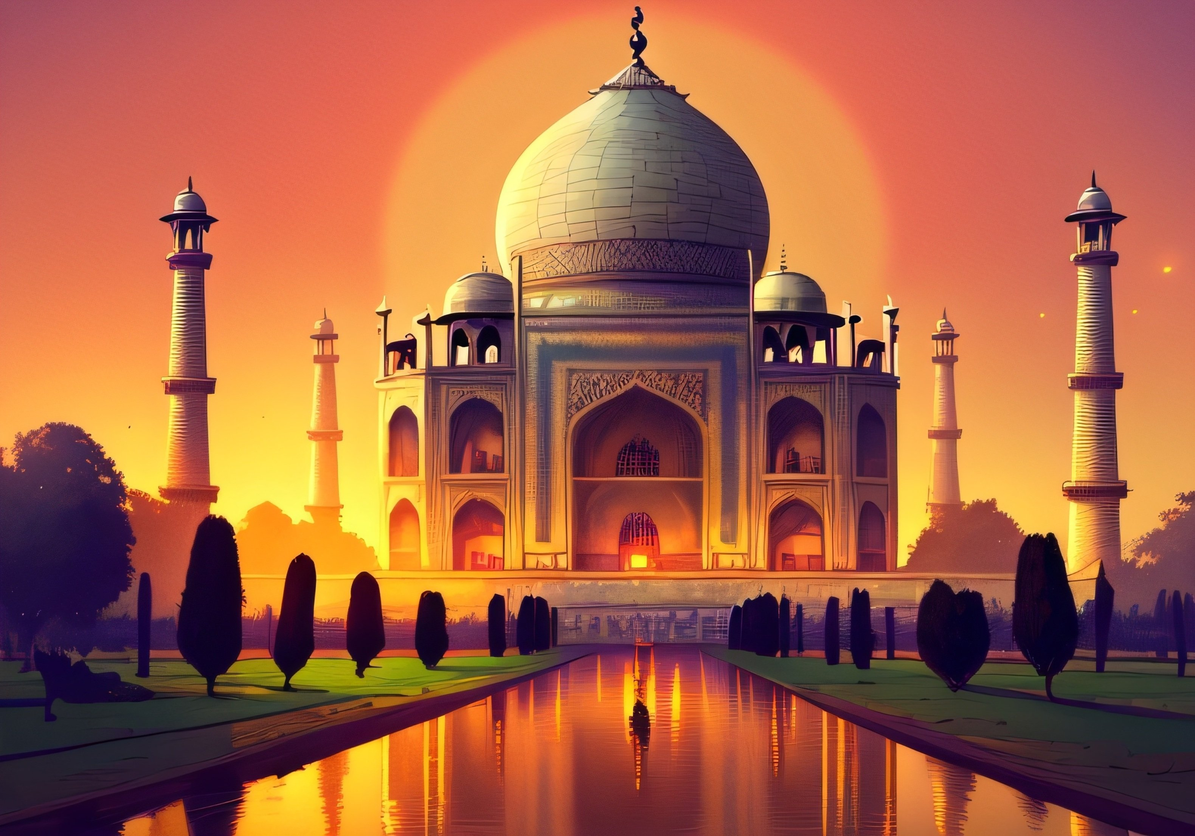
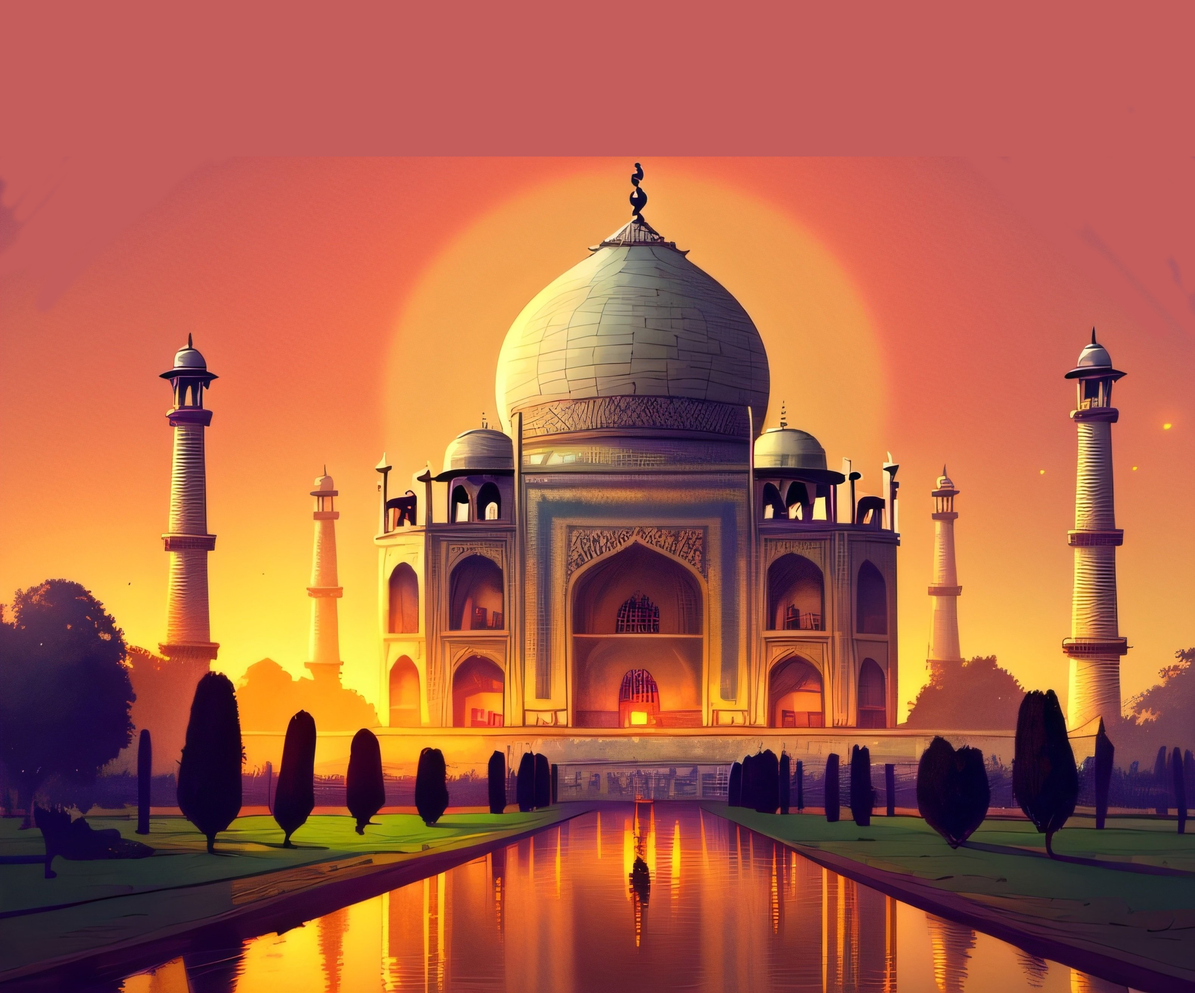
Navbar changes

diff --git a/components/Navbar.js b/components/Navbar.js
@@ -1,30 +1,124 @@
 import Link from "next/link"
+import { useState } from "react";
 
 const Navbar = () => {
+    const [navbar, setNavbar] = useState(false);
     return (
-        <nav className="grid grid-cols-3 h-15 items-center " >
-            {/* Left */}
-            <div className="relative p-5  ">
-                <h2 className="font-semibold text-lg text-amber-500 uppercase ">YatriPravasi.com</h2>
-            </div>
-            {/* Middle */}
-            <div className="relative p-5 ">
-                <ul className="flex space-x-5 text-gray-700 font-medium ">
-                    <li className="hover:text-amber-900 cursor-pointer" >
-                        <Link href={'/'}>Home</Link>
-                    </li>
-                    <li className="hover:text-amber-900 cursor-pointer" >
-                        <Link href={'/book'}>Booking Form</Link></li>
-                    <li className="hover:text-amber-900 cursor-pointer" >
-                        <Link href={'/'}>Category</Link></li>
-                    <li className="hover:text-amber-900 cursor-pointer" >
-                        <Link href={'/'}>Contact Us</Link></li>
-                </ul>
-            </div>
-            {/* Right */}
-            <div className="relative p-5 ml-auto space-x-5">
-                <button className="outline-none">Login</button>
-                <button className="px-5 py-2 bg-amber-500 rounded-lg outline-none text-white ">SignUp</button>
+        // <nav className="grid grid-cols-3 h-15 items-center " >
+        //     {/* Left */}
+        //     <div className="relative p-5  ">
+        //         <h2 className="font-semibold text-lg text-amber-500 uppercase ">YatriPravasi.com</h2>
+        //     </div>
+        //     {/* Middle */}
+        //     <div className="relative p-5 ">
+        //         <ul className="flex space-x-5 text-gray-700 font-medium ">
+        //             <li className="hover:text-amber-900 cursor-pointer" >
+        //                 <Link href={'/'}>Home</Link>
+        //             </li>
+        //             <li className="hover:text-amber-900 cursor-pointer" >
+        //                 <Link href={'/book'}>Booking Form</Link></li>
+        //             <li className="hover:text-amber-900 cursor-pointer" >
+        //                 <Link href={'/'}>Category</Link></li>
+        //             <li className="hover:text-amber-900 cursor-pointer" >
+        //                 <Link href={'/'}>Contact Us</Link></li>
+        //         </ul>
+        //     </div>
+        //     {/* Right */}
+        //     <div className="relative p-5 ml-auto space-x-5 font-bold">
+        //         <button className="outline-none">Login</button>
+        //         <button className="px-5 py-2 bg-amber-500 rounded-lg outline-none text-white hover:bg-amber-600 hover:scale-105">SignUp</button>
+        //     </div>
+        // </nav>
+        <nav className="w-full  shadow">
+            <div className="justify-between px-4 mx-auto lg:max-w-7xl md:items-center md:flex md:px-8">
+                <div>
+                    <div className="flex items-center justify-between py-3 md:py-5 md:block">
+                        <a href="javascript:void(0)">
+                            <h2 className="text-2xl font-bold text-orange-600">LOGO</h2>
+                        </a>
+                        <div className="md:hidden">
+                            <button
+                                className="p-2 text-gray-700 rounded-md outline-none focus:border-gray-400 focus:border"
+                                onClick={() => setNavbar(!navbar)}
+                            >
+                                {navbar ? (
+                                    <svg
+                                        xmlns="http://www.w3.org/2000/svg"
+                                        className="w-6 h-6 text-white"
+                                        viewBox="0 0 20 20"
+                                        fill="currentColor"
+                                    >
+                                        <path
+                                            fillRule="evenodd"
+                                            d="M4.293 4.293a1 1 0 011.414 0L10 8.586l4.293-4.293a1 1 0 111.414 1.414L11.414 10l4.293 4.293a1 1 0 01-1.414 1.414L10 11.414l-4.293 4.293a1 1 0 01-1.414-1.414L8.586 10 4.293 5.707a1 1 0 010-1.414z"
+                                            clipRule="evenodd"
+                                        />
+                                    </svg>
+                                ) : (
+                                    <svg
+                                        xmlns="http://www.w3.org/2000/svg"
+                                        className="w-6 h-6 text-white"
+                                        fill="none"
+                                        viewBox="0 0 24 24"
+                                        stroke="currentColor"
+                                        strokeWidth={2}
+                                    >
+                                        <path
+                                            strokeLinecap="round"
+                                            strokeLinejoin="round"
+                                            d="M4 6h16M4 12h16M4 18h16"
+                                        />
+                                    </svg>
+                                )}
+                            </button>
+                        </div>
+                    </div>
+                </div>
+                <div>
+                    <div
+                        className={`flex-1 justify-self-center pb-3 mt-8 md:block md:pb-0 md:mt-0 ${navbar ? "block" : "hidden"
+                            }`}
+                    >
+                        <ul className="items-center justify-center space-y-8 md:flex md:space-x-6 md:space-y-0">
+                            <li className="hover:text-amber-900 cursor-pointer" >
+                                <Link href={'/'}>Home</Link>
+                            </li>
+                            <li className="hover:text-amber-900 cursor-pointer" >
+                                <Link href={'/book'}>Booking Form</Link></li>
+                            <li className="hover:text-amber-900 cursor-pointer" >
+                                <Link href={'/'}>Category</Link></li>
+                            <li className="hover:text-amber-900 cursor-pointer" >
+                                <Link href={'/'}>Contact Us</Link></li>
+                        </ul>
+
+                        <div className="mt-3 space-y-2 lg:hidden md:inline-block">
+                            <a
+                                href="javascript:void(0)"
+                                className="inline-block w-full px-4 py-2 text-center text-white bg-gray-600 rounded-md shadow hover:bg-gray-800"
+                            >
+                                Sign in
+                            </a>
+                            <a
+                                href="javascript:void(0)"
+                                className="inline-block w-full px-4 py-2 text-center text-gray-800 bg-white rounded-md shadow hover:bg-gray-100"
+                            >
+                                Sign up
+                            </a>
+                        </div>
+                    </div>
+                </div>
+                <div className="hidden space-x-2 md:inline-block">
+                    <button 
+                        className="px-4 py-2 text-white bg-orange-600 rounded-md shadow hover:bg-gray-800"
+                    >
+                        Sign in
+                    </button>
+                    <button
+                        className="px-4 py-2 text-gray-800 bg-white rounded-md shadow hover:bg-gray-100"
+                    >
+                        Sign up
+                    </button>
+                </div>
             </div>
         </nav>
     )

diff --git a/components/LandingPage/Hero.js b/components/LandingPage/Hero.js
@@ -6,16 +6,16 @@ const Hero = () => {
         <div className=" ml-auto mr-auto flex flex-col items-center rounded-2xl mt-3 ">
 
             {/* Hero Images */}
-            <div className="relative h-[550px] w-[1100px] rounded-2xl shadow-lg">
+            <div className="relative h-[80vh] w-[100%] md:h-[550px] lg:w-[1100px] rounded-2xl shadow-lg ml-9 mr-9">
                 <div className="absolute top-5 z-10 w-[100%]">
-                    <h2 className="text-[60px] text-center font-bold text-amber-700 bg-amber-100 bg-opacity-50 ">Yatri Pravasi</h2>
+                    <h2 className="text-[20px] p-3 text-center font-bold text-slate-50 bg-black bg-opacity-50 ">Taj Mahal</h2>
                 </div>
-                <Image className="rounded-2xl" src={"/hero.jpg"} fill style={{ objectFit: "cover", objectPosition: "-50% 15%" }} />
+                <Image className="rounded-2xl" src={"/hero.jpg"} fill style={{ objectFit: "cover" }} />
             </div>
 
             {/* Perference Form */}
 
-            <div className="relative grid grid-cols-3  h-25 w-[900px] p-7 z-3 -top-10 bg-slate-50 shadow-md rounded-2xl">
+            <div className="relative grid grid-cols-1  sm:grid-cols-3  h-25 sm:w-[700px] md:w-[900px] p-7 z-3 -top-10 bg-slate-50 shadow-md rounded-2xl">
                 {/* Left */}
                 <div>
                     <div className="flex space-x-2 items-center">
